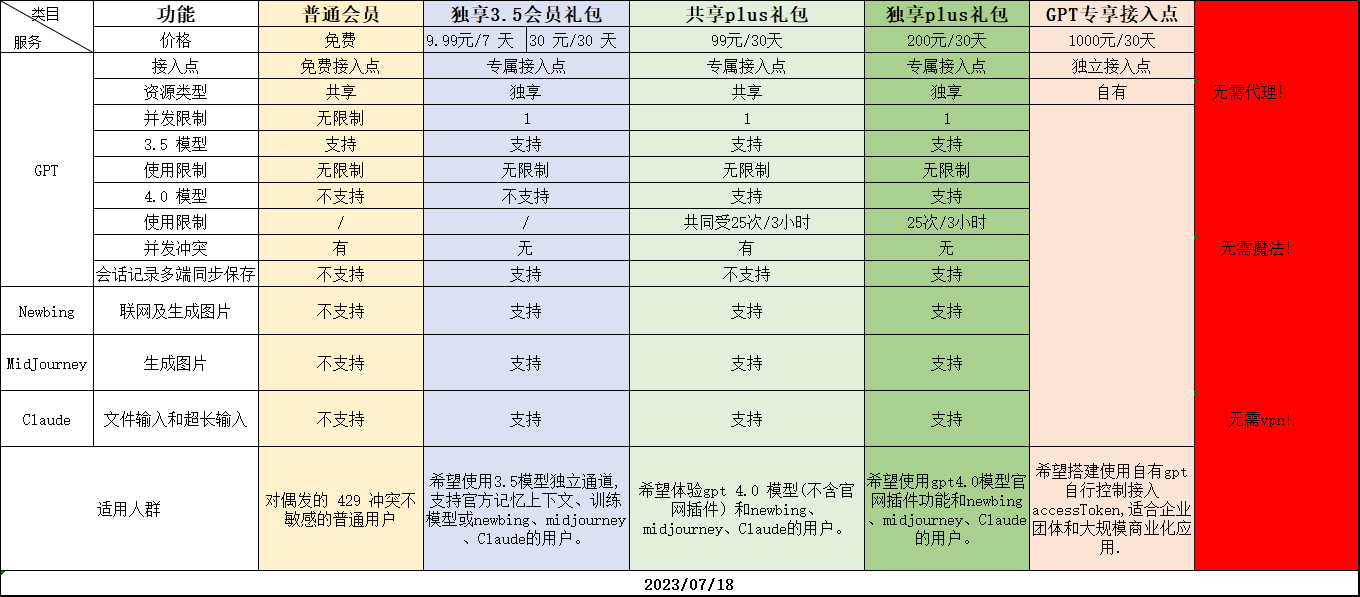
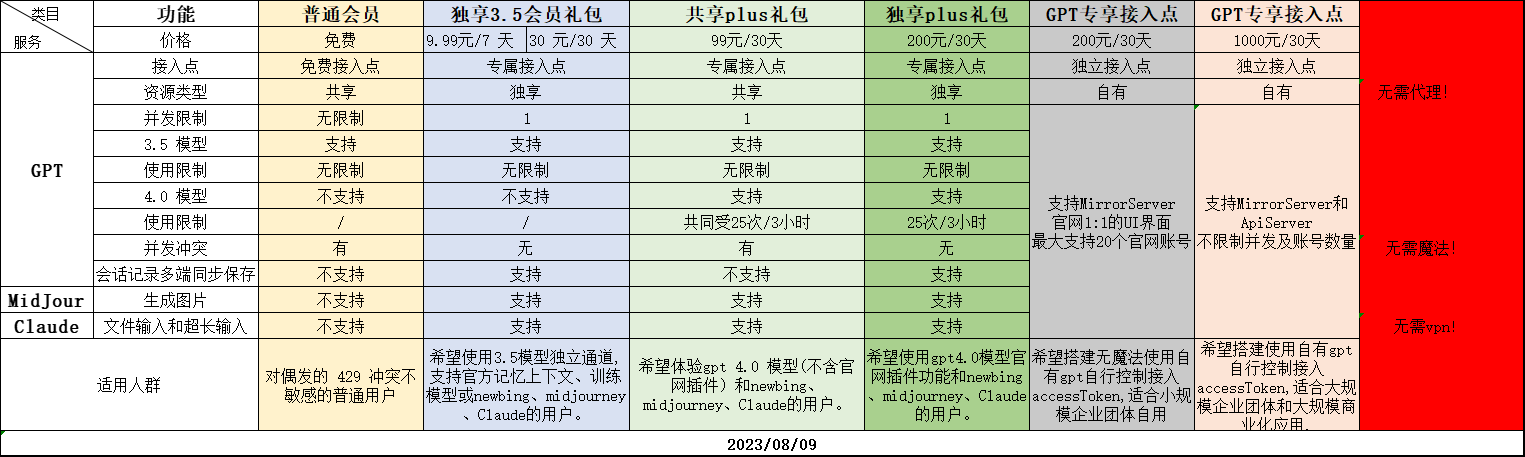
下线newbing

diff --git a/docs/ai/README.md b/docs/ai/README.md
@@ -30,11 +30,11 @@ sidebar: false
 支持使用非官方联网及插件。</br>
 <img src="/images/advance.png"></img>
 </navcard>
-<navcard CardName="NewBing测试版(付费)" Url="https://newbing.xyhelper.com.cn">
-支持联网,支持图像生成。 </br>
+<navcard CardName="Claude测试版(付费)" Url="https://claude.xyhelper.com.cn">
+支持100K TOKEN. 支持文件上传分析.</br>
 面向独享及共享会员开放试运行。 </br>
 试运行服务,不保证稳定性。   </br>
-<img src="/images/newbing.png"></img>
+<img src="/images/claude.png"></img>
 </navcard>
 </el-row>
 <el-row  :gutter="10">
@@ -44,12 +44,7 @@ sidebar: false
 试运行服务,不保证稳定性。   </br>
 <img src="/images/mj.png"></img>
 </navcard>
-<navcard CardName="Claude测试版(付费)" Url="https://claude.xyhelper.com.cn">
-支持100K TOKEN. 支持文件上传分析.</br>
-面向独享及共享会员开放试运行。 </br>
-试运行服务,不保证稳定性。   </br>
-<img src="/images/claude.png"></img>
-</navcard>
+
 </el-row>
 
 <!-- <ClientOnly>
